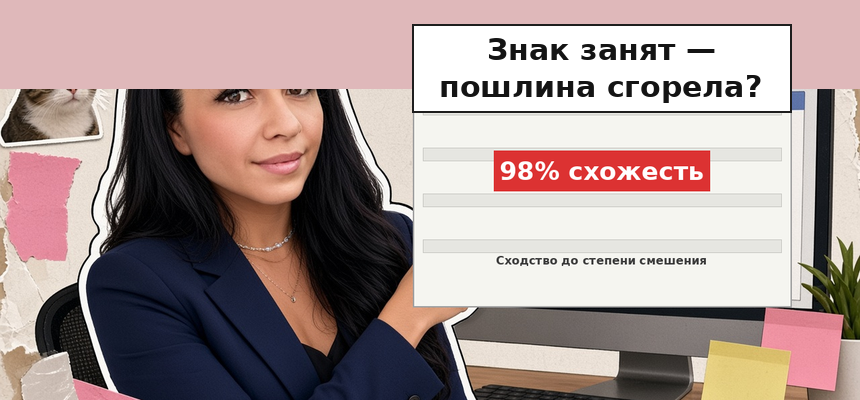
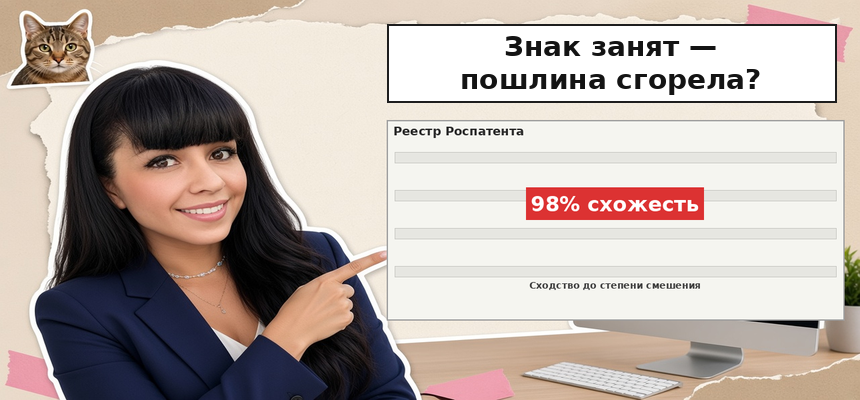
fix(L01 cover): new i2i base, no top band; top-left crop; text right only
- Replace cover-base-notext with v2 composition (headroom, blank monitor)
- Remove full-width top mask/clean; PIL UI+title only on right half
- Small preview = resize of 860 cover (matches hosting)

diff --git a/scripts/lireate_cover_text_overlay.py b/scripts/lireate_cover_text_overlay.py
@@ -14,6 +14,7 @@ BLOG_SMALL_SIZE = (350, 163)
 MARGIN_PX = 24
 
 L01_TITLE_LINES = ("Знак занят —", "пошлина сгорела?")
+L01_TITLE_SHORT = ("Знак занят?",)
 
 
 def _font_path():
@@ -37,72 +38,47 @@ def _load_font(size: int):
     return ImageFont.load_default()
 
 
-def _hosting_crop_resize(im, target_w, target_h):
-    from lireate_hosting_images import _center_crop_resize, _pil_image
+def _crop_resize_top_left_bias(im, target_w, target_h):
+    """Crop to aspect keeping top + left (heroine head on left must stay in frame)."""
+    from PIL import Image
 
-    Image = _pil_image()
-    if Image is None:
-        raise RuntimeError("Pillow required")
-    return _center_crop_resize(im, target_w, target_h, Image)
-
-
-def _paper_fill(im, x0, y0, x1, y1):
-    sample = im.crop((
-        max(0, int(im.size[0] * 0.05)),
-        max(0, int(im.size[1] * 0.55)),
-        max(1, int(im.size[0] * 0.12)),
-        min(im.size[1], int(im.size[1] * 0.65)),
-    ))
-    px = sample.resize((1, 1)).getpixel((0, 0))
-    if isinstance(px, tuple) and len(px) >= 3:
-        return px[:3]
-    return (245, 245, 240)
-
-
-def _mask_l01_top_band(im):
-    """Remove ghost model headline from base image."""
-    from PIL import ImageDraw
-
-    im = im.convert("RGBA")
     w, h = im.size
-    band_h = int(h * 0.20)
-    draw = ImageDraw.Draw(im)
-    # Sample paper tone from lower-left (away from face cutout edge)
-    fill = _paper_fill(im, 0, 0, w, band_h)
-    draw.rectangle((0, 0, w, band_h), fill=fill + (255,))
-    return im
+    target_aspect = float(target_w) / float(target_h)
+    src_aspect = float(w) / float(h)
+    if src_aspect > target_aspect:
+        new_w = int(round(h * target_aspect))
+        left = 0
+        box = (left, 0, left + new_w, h)
+    else:
+        new_h = int(round(w / target_aspect))
+        top = 0
+        box = (0, top, w, top + new_h)
+    cropped = im.crop(box)
+    return cropped.resize((target_w, target_h), Image.Resampling.LANCZOS)
 
 
-def _clean_frame_top(im, band_h=None):
-    """Erase residual headline pixels after crop (before PIL title)."""
-    from PIL import ImageDraw
-
-    im = im.convert("RGBA")
-    w, h = im.size
-    if band_h is None:
-        band_h = max(MARGIN_PX + 8, int(h * 0.26))
-    draw = ImageDraw.Draw(im)
-    fill = _paper_fill(im, 0, 0, w, band_h)
-    draw.rectangle((0, 0, w, band_h), fill=fill + (255,))
-    return im
-
-
-def _registry_window_box(w, h):
-    win_x0 = int(w * 0.48)
-    win_y0 = int(h * 0.22)
-    win_x1 = int(w * 0.92)
-    win_y1 = int(h * 0.72)
+def _registry_window_box(w, h, profile="860"):
+    """UI overlays only in the right half (PIL text zone)."""
+    if profile == "350":
+        win_x0 = int(w * 0.55)
+        win_y0 = int(h * 0.46)
+        win_x1 = w - MARGIN_PX
+        win_y1 = int(h * 0.88)
+        return win_x0, win_y0, win_x1, win_y1
+    win_x0 = int(w * 0.45)
+    win_y0 = int(h * 0.30)
+    win_x1 = w - MARGIN_PX
+    win_y1 = int(h * 0.80)
     return win_x0, win_y0, win_x1, win_y1
 
 
-def apply_l01_registry_ui(im, include_title=False):
-    """Registry window + labels. Title only when include_title=False is default (legacy)."""
+def apply_l01_registry_ui(im, profile="860"):
     from PIL import ImageDraw
 
     im = im.convert("RGBA")
     draw = ImageDraw.Draw(im)
     w, h = im.size
-    win_x0, win_y0, win_x1, win_y1 = _registry_window_box(w, h)
+    win_x0, win_y0, win_x1, win_y1 = _registry_window_box(w, h, profile)
 
     badge_font = _load_font(max(18, int(h * 0.052)))
     label_font = _load_font(max(13, int(h * 0.030)))
@@ -110,21 +86,21 @@ def apply_l01_registry_ui(im, include_title=False):
 
     draw.rectangle((win_x0, win_y0, win_x1, win_y1), fill=(245, 245, 240), outline=(160, 160, 160), width=2)
     for i in range(4):
-        row_y = win_y0 + 52 + i * int((win_y1 - win_y0 - 80) / 4)
+        row_y = win_y0 + 48 + i * int((win_y1 - win_y0 - 72) / 4)
         draw.rectangle(
-            (win_x0 + 14, row_y, win_x1 - 14, row_y + 18),
+            (win_x0 + 12, row_y, win_x1 - 12, row_y + 16),
             fill=(230, 230, 225),
             outline=(200, 200, 195),
         )
-    draw.text((win_x0 + 12, win_y0 + 8), "Реестр Роспатента", font=label_font, fill=(40, 40, 40))
+    draw.text((win_x0 + 10, win_y0 + 6), "Реестр Роспатента", font=label_font, fill=(40, 40, 40))
 
     badge_text = "98% схожесть"
     bw = draw.textlength(badge_text, font=badge_font)
     bx = win_x0 + int((win_x1 - win_x0 - bw) / 2)
-    by = win_y0 + int((win_y1 - win_y0) * 0.38)
-    pad = 8
+    by = win_y0 + int((win_y1 - win_y0) * 0.36)
+    pad = 7
     draw.rectangle(
-        (bx - pad, by - pad, bx + bw + pad, by + int(badge_font.size * 1.15) + pad),
+        (bx - pad, by - pad, bx + bw + pad, by + int(badge_font.size * 1.1) + pad),
         fill=(220, 50, 50),
     )
     draw.text((bx, by), badge_text, font=badge_font, fill=(255, 255, 255))
@@ -132,19 +108,16 @@ def apply_l01_registry_ui(im, include_title=False):
     sub = "Сходство до степени смешения"
     sw = draw.textlength(sub, font=small_font)
     draw.text(
-        (win_x0 + int((win_x1 - win_x0 - sw) / 2), win_y1 - int(h * 0.11)),
+        (win_x0 + int((win_x1 - win_x0 - sw) / 2), win_y1 - int(h * 0.10)),
         sub,
         font=small_font,
         fill=(60, 60, 60),
     )
 
-    if include_title:
-        im = draw_l01_headline(im, profile="860")
-
     return im.convert("RGB")
 
 
-def _fit_title_font(draw, lines, max_width, start_size, min_size=14):
+def _fit_title_font(draw, lines, max_width, start_size, min_size=11):
     for size in range(start_size, min_size - 1, -1):
         font = _load_font(size)
         widths = [draw.textlength(line, font=font) for line in lines]
@@ -155,50 +128,46 @@ def _fit_title_font(draw, lines, max_width, start_size, min_size=14):
 
 
 def draw_l01_headline(im, profile="860"):
-    """Two-line title on contrast plate; call AFTER final crop. profile: 860 | 350."""
     from PIL import ImageDraw
 
     im = im.convert("RGBA")
     draw = ImageDraw.Draw(im)
     w, h = im.size
-    win_x0, win_y0, win_x1, _win_y1 = _registry_window_box(w, h)
+    win_x0, win_y0, win_x1, _win_y1 = _registry_window_box(w, h, profile)
 
     if profile == "350":
-        # Right column only — do not cover heroine on the left
-        plate_x0 = int(w * 0.40)
+        plate_x0 = int(w * 0.55)
         plate_x1 = w - MARGIN_PX
-        max_text_w = plate_x1 - plate_x0 - 10
-        start_font = 15
-        line_gap = 1
+        lines = L01_TITLE_SHORT
+        max_text_w = plate_x1 - plate_x0 - 6
+        start_font = 13
+        line_gap = 0
         plate_y0 = MARGIN_PX
+        max_plate_bottom = int(h * 0.34)
     else:
-        plate_x0 = max(MARGIN_PX, win_x0)
-        plate_x1 = min(w - MARGIN_PX, win_x1)
-        max_text_w = plate_x1 - plate_x0 - 16
-        start_font = 30
-        line_gap = 3
+        plate_x0 = win_x0
+        plate_x1 = win_x1
+        lines = L01_TITLE_LINES
+        max_text_w = plate_x1 - plate_x0 - 12
+        start_font = 28
+        line_gap = 2
         plate_y0 = MARGIN_PX
+        max_plate_bottom = win_y0 - 10
 
-    font, widths = _fit_title_font(draw, L01_TITLE_LINES, max_text_w, start_font, min_size=12)
-    line_h = int(font.size * 1.15) + line_gap
-    block_h = line_h * len(L01_TITLE_LINES) + 14
-    plate_y1 = plate_y0 + block_h
-    if profile == "860":
-        plate_y1 = min(plate_y1, win_y0 - 8)
-        if plate_y1 < plate_y0 + line_h * 2:
-            plate_y1 = plate_y0 + block_h
+    font, widths = _fit_title_font(draw, lines, max_text_w, start_font, min_size=10)
+    line_h = int(font.size * 1.12) + line_gap
+    block_h = line_h * len(lines) + 12
+    plate_y1 = min(plate_y0 + block_h, max_plate_bottom)
 
     draw.rectangle(
         (plate_x0, plate_y0, plate_x1, plate_y1),
-        fill=(255, 255, 255, 235),
+        fill=(255, 255, 255, 240),
         outline=(30, 30, 30, 255),
         width=2,
     )
 
-    ty = plate_y0 + 10
-    if ty < MARGIN_PX:
-        ty = MARGIN_PX
-    for i, line in enumerate(L01_TITLE_LINES):
+    ty = plate_y0 + 6
+    for i, line in enumerate(lines):
         tw = widths[i]
         tx = plate_x0 + int((plate_x1 - plate_x0 - tw) / 2)
         draw.text(
@@ -210,35 +179,24 @@ def draw_l01_headline(im, profile="860"):
             stroke_fill=(255, 255, 255),
         )
 
-    _assert_text_in_frame(draw, im.size, MARGIN_PX)
+    if profile == "350" and plate_x0 < int(w * 0.50):
+        raise ValueError("small title must stay in right half")
     return im.convert("RGB")
-
-
-def _assert_text_in_frame(draw, size, margin):
-    w, h = size
-    # bbox of drawn text is not tracked; verify plate fits
-    if margin < MARGIN_PX:
-        raise ValueError("margin below minimum")
-    if w < 2 * margin or h < 2 * margin:
-        raise ValueError("frame too small for title margins")
 
 
 def build_l01_cover_from_base(base_path: Path):
     from PIL import Image
 
-    work = (1200, 675)
     base = Image.open(base_path).convert("RGB")
-    if base.size != work:
-        base = base.resize(work, Image.Resampling.LANCZOS)
+    work = (1290, 600)
+    base_r = base.resize(work, Image.Resampling.LANCZOS)
+    with_ui = apply_l01_registry_ui(base_r, profile="860")
+    frame = _crop_resize_top_left_bias(with_ui, BLOG_COVER_SIZE[0], BLOG_COVER_SIZE[1])
+    cover = draw_l01_headline(frame, profile="860")
 
-    masked = _mask_l01_top_band(base)
-    with_ui = apply_l01_registry_ui(masked, include_title=False)
-    frame = _hosting_crop_resize(with_ui, BLOG_COVER_SIZE[0], BLOG_COVER_SIZE[1])
-    frame_clean = _clean_frame_top(frame)
-    cover = draw_l01_headline(frame_clean, profile="860")
+    from PIL import Image
 
-    small_base = _clean_frame_top(frame.resize(BLOG_SMALL_SIZE, Image.Resampling.LANCZOS), band_h=46)
-    small = draw_l01_headline(small_base, profile="350")
+    small = cover.resize(BLOG_SMALL_SIZE, Image.Resampling.LANCZOS)
     return cover, small
 
 

diff --git a/.cursor/skills/cover-excalibur-blog/SKILL.md b/.cursor/skills/cover-excalibur-blog/SKILL.md
@@ -69,7 +69,9 @@ inject <figure> after H2 in article.html
 - Генерация: пустые плашки/строки, **без букв и цифр** в prompt (negative: text, letters, watermark).
 - Весь читаемый русский текст (заголовок, «98% схожесть», подписи реестра) — **наложение кодом** (`scripts/lireate_cover_text_overlay.py`, PIL + DejaVu Sans Bold).
 - Финальный `cover.png` для Lireate — **860×400** (как на хостинге), лицо героини не обрезать.
-- **Заголовок** — только **после** финального кропа 860×400; отступы от краёв **≥24px**; текст **не выходит за кадр** — проверить визуально на **860×400** и **350×163** (отдельный оверлей для small при необходимости).
+- **Заголовок** — только **после** финального кропа 860×400; отступы **≥24px**; текст **не выходит за кадр** — проверить на **860×400** и **350×163**.
+- **Запрещено:** сплошные заливки/«заплатки» по всей ширине сверху (режут голову/стикеры). Кроп — **с сохранением верха и левой части** (героиня целиком).
+- **350×163:** плашка только в **правых ~55%**, короткий заголовок; лицо слева не перекрывать; важное — **верхние 2/3** (низ на /news — градиент с H1).
 
 ---
 

diff --git a/skills/cover-excalibur-blog/SKILL.md b/skills/cover-excalibur-blog/SKILL.md
@@ -69,7 +69,9 @@ inject <figure> after H2 in article.html
 - Генерация: пустые плашки/строки, **без букв и цифр** в prompt (negative: text, letters, watermark).
 - Весь читаемый русский текст (заголовок, «98% схожесть», подписи реестра) — **наложение кодом** (`scripts/lireate_cover_text_overlay.py`, PIL + DejaVu Sans Bold).
 - Финальный `cover.png` для Lireate — **860×400** (как на хостинге), лицо героини не обрезать.
-- **Заголовок** — только **после** финального кропа 860×400; отступы от краёв **≥24px**; текст **не выходит за кадр** — проверить визуально на **860×400** и **350×163** (отдельный оверлей для small при необходимости).
+- **Заголовок** — только **после** финального кропа 860×400; отступы **≥24px**; текст **не выходит за кадр** — проверить на **860×400** и **350×163**.
+- **Запрещено:** сплошные заливки/«заплатки» по всей ширине сверху (режут голову/стикеры). Кроп — **с сохранением верха и левой части** (героиня целиком).
+- **350×163:** плашка только в **правых ~55%**, короткий заголовок; лицо слева не перекрывать; важное — **верхние 2/3** (низ на /news — градиент с H1).
 
 ---
 
